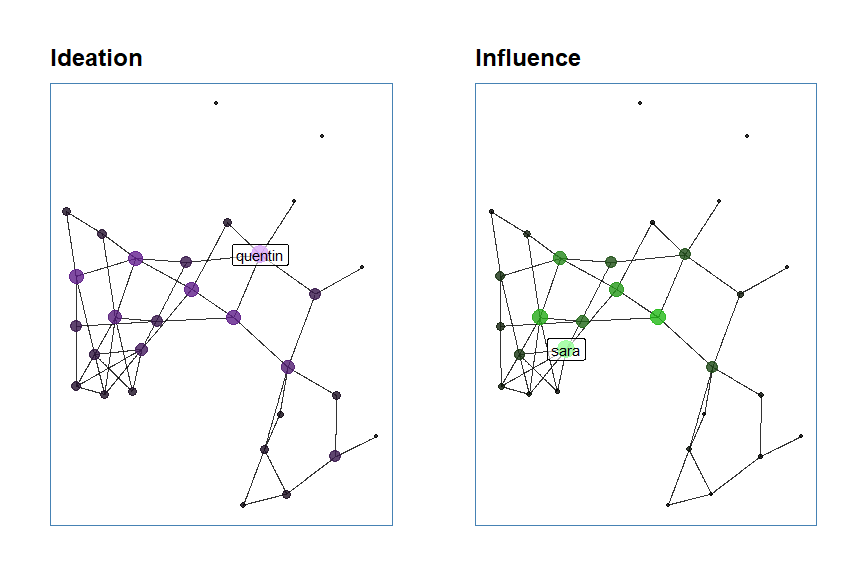
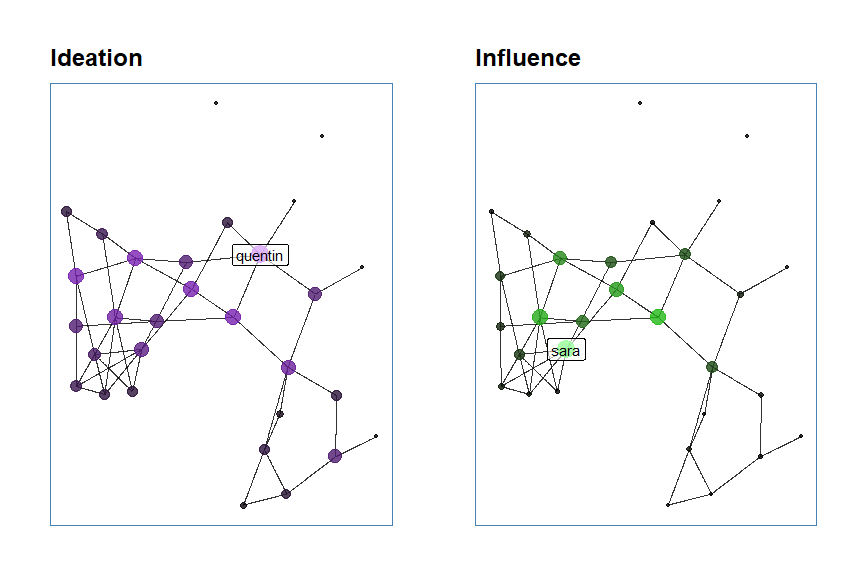
Remove normalization from signatures

diff --git a/README.md b/README.md
@@ -94,9 +94,9 @@ knitr::kable(hrgraphsign::get_top_by_column(example_graph, column = "ideation", 
 
 |     | ideation | name | firstName | lastName | title | department  | employmentYear |
 |:----|---------:|:-----|:----------|:---------|:------|:------------|---------------:|
-| 17  | 10.00000 | 17   | quentin   | quitter  | NA    | Engineering |           2018 |
-| 21  |  6.61157 | 21   | urban     | undilat  | NA    | Marketing   |           2017 |
-| 13  |  6.40000 | 13   | martin    | mustig   | NA    | Engineering |           2017 |
+| 17  | 5.000000 | 17   | quentin   | quitter  | NA    | Engineering |           2018 |
+| 21  | 4.072398 | 21   | urban     | undilat  | NA    | Marketing   |           2017 |
+| 13  | 4.000000 | 13   | martin    | mustig   | NA    | Engineering |           2017 |
 
 #### Influence Signature
 
@@ -116,9 +116,9 @@ knitr::kable(hrgraphsign::get_top_by_column(example_graph, column = "influence",
 
 |     | influence | name | firstName | lastName | title | department  | employmentYear | ideation |
 |:----|----------:|:-----|:----------|:---------|:------|:------------|---------------:|---------:|
-| 19  | 10.000000 | 19   | sara      | sommar   | NA    | Engineering |           2010 | 4.750515 |
-| 13  |  7.768433 | 13   | martin    | mustig   | NA    | Engineering |           2017 | 6.400000 |
-| 24  |  7.259042 | 24   | xenon     | xor      | NA    | Marketing   |           2012 | 5.874853 |
+| 19  |  0.108950 | 19   | sara      | sommar   | NA    | Engineering |           2010 | 3.353169 |
+| 13  |  0.081936 | 13   | martin    | mustig   | NA    | Engineering |           2017 | 4.000000 |
+| 24  |  0.075769 | 24   | xenon     | xor      | NA    | Marketing   |           2012 | 3.810756 |
 
 #### Comparison
 
